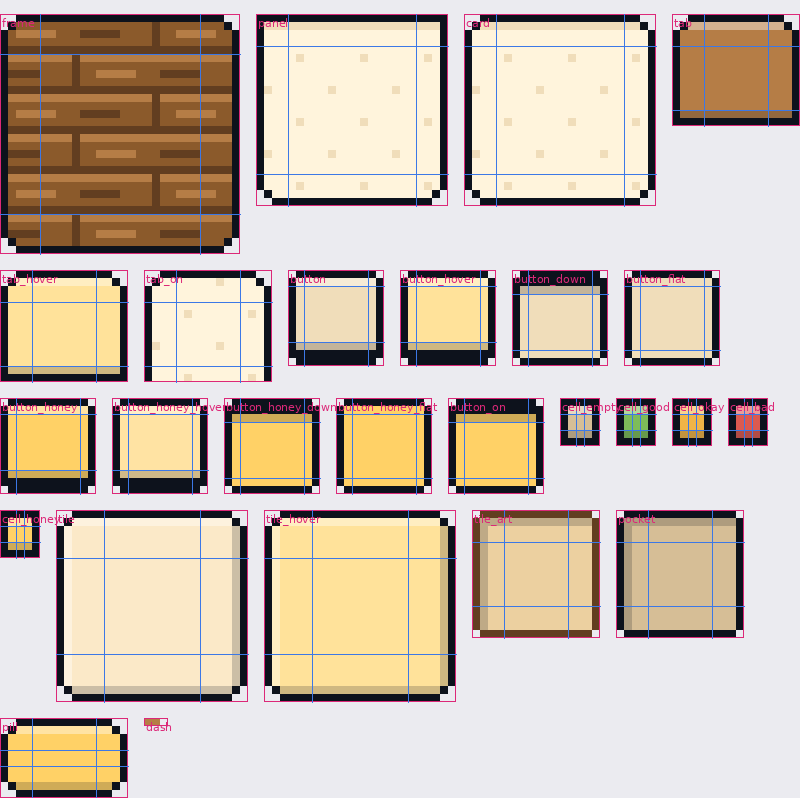
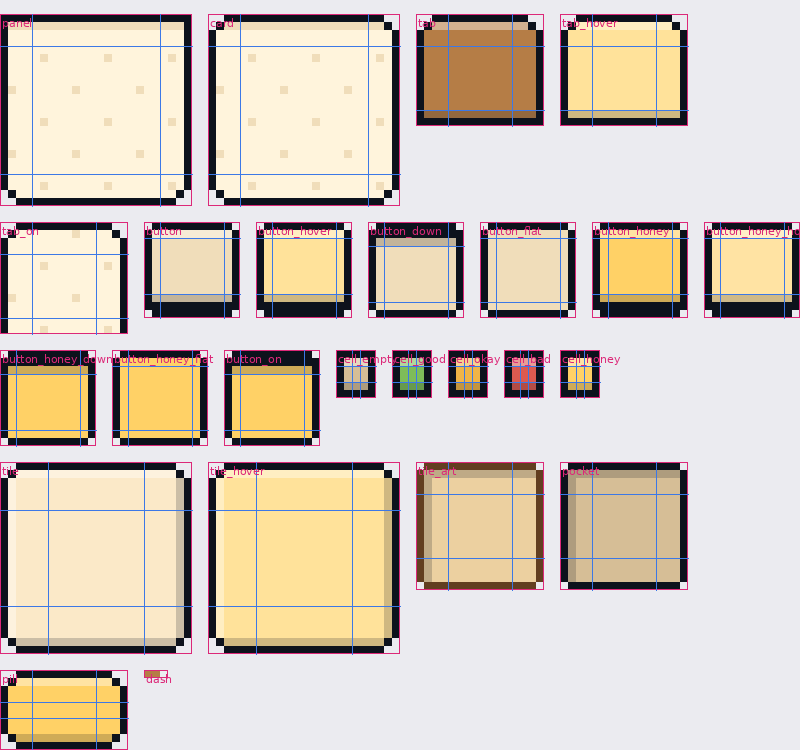
Menu frame background is its own file per skin (frame_<skin>.png: oak planks, birch bark, leafy hedge with flowers, stone bricks, cherry planks with blossoms, starry night), not recoloured; everything else stays in skin.png and is recoloured; art_templates/skin_frames.png shows them side by side
Claude-Session: https://claude.ai/code/session_018yUitM4zMV3L9odfX6GAV1

diff --git a/tools/make_ui_skin.py b/tools/make_ui_skin.py
@@ -4,7 +4,10 @@
     python tools/make_ui_skin.py <папка>    -> само в тази папка (за преглед)
 
 Всички спрайтове са в ЕДИН файл – skin.png (подредени на редове, с 2 празни пиксела
-помежду им). В skin.json за всеки:
+помежду им) – освен фона на рамката (дървото): той е отделен файл за всеки цвят на менюто,
+frame_<скин>.png (classic, birch, grass, stone, sakura, night), нарисуван да отива на скина
+и не се преоцветява. В skin.json за всеки:
+  file  – (само за рамката) от кой файл е; {theme} е скинът;
   rect  – къде е в skin.png (x, y, ширина, височина);
 
 Всеки спрайт се „реже“ на 9 части (9-slice): ъглите стоят както са нарисувани, ръбовете и
@@ -153,30 +156,164 @@ def skin_map(atlas, out, s=8):
     big.save(path)
 
 
-# ───────────────────────── Рамка (дърво) ─────────────────────────
+# ───────────────────────── Рамка (фонът) – отделен файл за всеки скин ─────────────────────────
+#
+# Фонът на рамката (дървото) НЕ е в skin.png и не се преоцветява: за всеки цвят на менюто
+# има свой нарисуван фон – frame_<скин>.png (50×50; ръбът е 5, средата 40×40 се повтаря).
 
-def wood_px(x, y):
-    """Дъски по 5 реда, с фуги и жилки; повтаря се през 20 пиксела."""
+FRAME, FS, PER = 50, 5, 40          # размер, ръб, през колко се повтаря шарката
+
+
+def h(x, y, seed=0):
+    """Псевдослучайно число 0..999 за точка (повтаря се през PER) – за разпръснати шарки."""
+    x, y = x % PER, y % PER
+    v = (x * 73856093) ^ (y * 19349663) ^ (seed * 83492791)
+    v = (v ^ (v >> 13)) * 1274126177
+    return (v ^ (v >> 16)) % 1000
+
+
+def planks(x, y, wood, dark, light, seed=0):
+    """Дъски по 5 реда, дълги по 20, разминати, с фуги и жилки."""
     row = y // 5
     ox = (x + (10 if row % 2 else 0)) % 20
     yy = y % 5
     if yy == 4 or ox == 19:
-        return WOODD
+        return dark
     if yy == 0:
-        return WOODL
-    if yy == 2 and 2 <= ox <= 6:
-        return WOODL
-    if yy == 2 and 10 <= ox <= 14:
-        return WOODD
-    return WOOD
+        return light
+    if yy == 2 and h(x // 4, row, seed) < 450 and ox % 9 < 5:
+        return light if h(x, row, seed + 1) < 500 else dark
+    return wood
 
 
-def frame(out):
-    s = S(30, 30)
-    s.fill(wood_px)
-    s.outline()
-    s.corners(2, 2, 2, 2)
-    save("frame", s, (5, 5, 5, 5), (1, 1, 1, 1), out)
+def frame_oak(x, y):
+    return planks(x, y, (139, 90, 43), (98, 62, 32), (181, 125, 70))
+
+
+def frame_birch(x, y):
+    base, line, mark = (232, 228, 216), (206, 200, 186), (52, 48, 44)
+    if y % 10 == 9:                                  # между дъските от бреза
+        return line
+    n = h(x // 3, y, 3)
+    if n < 70 and y % 10 not in (0, 8):              # черните чертички по кората
+        return mark
+    if n < 120:
+        return (186, 180, 168)
+    if y % 10 == 0:
+        return (248, 246, 238)
+    return base
+
+
+def frame_grass(x, y):
+    dark, mid, light = (52, 96, 36), (90, 146, 58), (142, 196, 92)
+    n = h(x, y, 5)
+    if n < 6:
+        return (255, 236, 120)                       # цветенце
+    if n < 11:
+        return (255, 255, 255)
+    if n < 15:
+        return (246, 160, 190)
+    # листенца: светъл връх и тъмна сянка под него, по диагонал
+    k = (x + 2 * y) % 6
+    j = h(x // 3, y // 2, 7)
+    if k == 0 and j < 650:
+        return light
+    if k == 1 and j < 650:
+        return mid
+    if (x + 2 * y) % 6 == 3 and h(x // 2, y // 3, 9) < 500:
+        return dark
+    return mid if j < 520 else (76, 128, 50)
+
+
+def frame_stone(x, y):
+    mortar, face, lit, shade = (78, 78, 86), (140, 140, 146), (182, 182, 188), (110, 110, 118)
+    row = y // 8
+    bw = 16 if row % 2 == 0 else 20
+    ox = (x + (8 if row % 2 else 0)) % 40
+    bx = ox % bw if ox < 40 - (40 % bw) else ox - (40 - (40 % bw))
+    yy = y % 8
+    if yy == 7 or bx == bw - 1 or ox == 39:
+        return mortar
+    if yy == 0 or bx == 0:
+        return lit
+    if yy == 6 or bx == bw - 2:
+        return shade
+    n = h(x, y, 11)
+    if n < 60:
+        return shade
+    if n < 100:
+        return lit
+    return face
+
+
+def frame_sakura(x, y):
+    c = planks(x, y, (122, 70, 60), (86, 46, 40), (168, 106, 92), seed=4)
+    n = h(x // 2, y // 2, 13)
+    if n < 22:                                       # розово цветче (2×2, със светла точка)
+        return (255, 214, 226) if (x + y) % 2 == 0 else (240, 150, 178)
+    return c
+
+
+def frame_night(x, y):
+    sky, deep = (40, 46, 82), (32, 36, 66)
+    n = h(x, y, 17)
+    if n < 8:
+        return (255, 250, 220)                       # звезда
+    if n < 12:
+        return (180, 190, 240)
+    # няколко по-големи звезди – кръстче
+    for cx, cy in ((7, 9), (27, 23), (16, 34), (34, 4)):
+        dx, dy = (x - cx) % PER, (y - cy) % PER
+        dx = dx - PER if dx > PER // 2 else dx
+        dy = dy - PER if dy > PER // 2 else dy
+        if dx == 0 and dy == 0:
+            return (255, 240, 170)
+        if abs(dx) + abs(dy) == 1:
+            return (150, 160, 220)
+    return deep if h(x // 2, y // 2, 19) < 160 else sky
+
+
+FRAMES = {
+    "classic": frame_oak,
+    "birch": frame_birch,
+    "grass": frame_grass,
+    "stone": frame_stone,
+    "sakura": frame_sakura,
+    "night": frame_night,
+}
+
+
+def frames(out):
+    for theme, fn in FRAMES.items():
+        s = S(FRAME, FRAME)
+        s.fill(fn)
+        s.outline()
+        s.corners(2, 2, 2, 2)
+        s.img.save(os.path.join(out, f"frame_{theme}.png"))
+    DEFS["frame"] = {"file": "frame_{theme}", "rect": [0, 0, FRAME, FRAME], "slice": [FS] * 4, "pad": [1, 1, 1, 1], "recolor": False}
+    frames_map(out)
+
+
+def frames_map(out, s=6):
+    """Всички фонове един до друг (×6), за да се сравнят и прерисуват."""
+    from PIL import ImageDraw, ImageFont
+    try:
+        font = ImageFont.truetype("/usr/share/fonts/truetype/dejavu/DejaVuSans.ttf", 13)
+    except OSError:
+        font = ImageFont.load_default()
+    cell = FRAME * s
+    big = Image.new("RGBA", (len(FRAMES) * (cell + 10) + 10, cell + 34), (235, 235, 240, 255))
+    d = ImageDraw.Draw(big)
+    for i, theme in enumerate(FRAMES):
+        img = Image.open(os.path.join(out, f"frame_{theme}.png"))
+        x = 10 + i * (cell + 10)
+        big.alpha_composite(img.resize((cell, cell), Image.NEAREST), (x, 24))
+        for k in (FS, FRAME - FS):
+            d.line([(x + k * s, 24), (x + k * s, 24 + cell)], fill=(60, 120, 230))
+            d.line([(x, 24 + k * s), (x + cell, 24 + k * s)], fill=(60, 120, 230))
+        d.text((x, 4), f"frame_{theme}.png", fill=(220, 40, 120), font=font)
+    path = os.path.join(ROOT, "art_templates", "skin_frames.png") if out == OUT else os.path.join(out, "skin_frames.png")
+    big.save(path)
 
 
 # ───────────────────────── Хартия ─────────────────────────
@@ -292,7 +429,6 @@ def dash(out):
 
 def main(out=OUT):
     os.makedirs(out, exist_ok=True)
-    frame(out)
     panel(out, "panel", (0, 0, 2, 2))
     panel(out, "card", (2, 2, 2, 2))
     tab(out, "tab", WOODL)
@@ -313,12 +449,14 @@ def main(out=OUT):
     pill(out)
     dash(out)
     pack(out)
+    frames(out)
     # Старите отделни файлове (преди всичко да е в skin.png) вече не трябват.
-    for name in SPRITES:
+    for name in list(SPRITES) + ["frame"]:
         old = os.path.join(out, name + ".png")
-        if name != "skin" and os.path.exists(old):
+        if os.path.exists(old):
             os.remove(old)
-    defs = {k: {"rect": v["rect"], "slice": v["slice"], "pad": v["pad"], **({"recolor": False} if v.get("recolor") is False else {})}
+    defs = {k: {**({"file": v["file"]} if "file" in v else {}), "rect": v["rect"], "slice": v["slice"], "pad": v["pad"],
+                **({"recolor": False} if v.get("recolor") is False else {})}
             for k, v in DEFS.items()}
     # По един ред на спрайт – лесно се чете и поправя на ръка.
     lines = [f'  "{k}": {json.dumps(v)}' for k, v in defs.items()]

diff --git a/src/Mecho/UiSkin.cs b/src/Mecho/UiSkin.cs
@@ -21,10 +21,11 @@ namespace Mecho;
 /// („button“ + „_hover“ → button_hover; ако го няма – button). Спрайтовете са в
 /// цветовете на класическия скин; другите скинове ги преоцветяват (Recolor), без тези с
 /// "recolor": false (деленцата за ситост/енергия). skin_<скин>.png – нарисуван на ръка скин.
+/// Фонът на рамката (дървото) е отделен файл за всеки скин: frame_<скин>.png (skin.json → file).
 /// </summary>
 public static class UiSkin
 {
-    private sealed record Def(Int32Rect Rect, int L, int T, int R, int B, int PL, int PT, int PR, int PB, bool Recolor);
+    private sealed record Def(Int32Rect Rect, int L, int T, int R, int B, int PL, int PT, int PR, int PB, bool Recolor, string? File);
 
     public static readonly DependencyProperty SpriteProperty = DependencyProperty.RegisterAttached(
         "Sprite", typeof(string), typeof(UiSkin), new PropertyMetadata(null, (d, _) => Changed(d)));
@@ -62,7 +63,8 @@ public static class UiSkin
                     var s = Ints("slice");
                     var pad = Ints("pad");
                     bool recolor = !(p.Value.TryGetProperty("recolor", out var rc) && rc.ValueKind == JsonValueKind.False);
-                    _defs[p.Name] = new Def(new Int32Rect(r[0], r[1], r[2], r[3]), s[0], s[1], s[2], s[3], pad[0], pad[1], pad[2], pad[3], recolor);
+                    string? file = p.Value.TryGetProperty("file", out var f) ? f.GetString() : null;
+                    _defs[p.Name] = new Def(new Int32Rect(r[0], r[1], r[2], r[3]), s[0], s[1], s[2], s[3], pad[0], pad[1], pad[2], pad[3], recolor, file);
                 }
             }
             catch (Exception)
@@ -250,14 +252,38 @@ public static class UiSkin
         return _atlas;
     }
 
-    /// <summary>Един спрайт – изрязан от skin.png по skin.json → rect.</summary>
+    private static BitmapSource? LoadPng(string name)
+    {
+        string path = Path.Combine(Dir, name + ".png");
+        if (!File.Exists(path)) return null;
+        var bmp = new BitmapImage();
+        bmp.BeginInit();
+        bmp.CacheOption = BitmapCacheOption.OnLoad;
+        bmp.UriSource = new Uri(path);
+        bmp.EndInit();
+        bmp.Freeze();
+        return bmp;
+    }
+
+    /// <summary>Един спрайт – изрязан от skin.png (или от своя файл, ако има file) по skin.json → rect.</summary>
     private static BitmapSource? Image(string name)
     {
         if (Images.TryGetValue(name, out var cached)) return cached;
         BitmapSource? image = null;
         try
         {
-            if (Defs.TryGetValue(name, out var def) && Atlas() is { } atlas
+            if (Defs.TryGetValue(name, out var own) && own.File != null)
+            {
+                // Отделен файл за всеки скин (фонът на рамката): frame_<скин>.png, иначе класическият.
+                var file = LoadPng(own.File.Replace("{theme}", _theme.Id)) ?? LoadPng(own.File.Replace("{theme}", UiThemes.All[0].Id));
+                if (file != null && own.Rect.X + own.Rect.Width <= file.PixelWidth && own.Rect.Y + own.Rect.Height <= file.PixelHeight)
+                {
+                    var part = new CroppedBitmap(file, own.Rect);
+                    part.Freeze();
+                    image = part;
+                }
+            }
+            else if (Defs.TryGetValue(name, out var def) && Atlas() is { } atlas
                 && def.Rect.X + def.Rect.Width <= atlas.PixelWidth && def.Rect.Y + def.Rect.Height <= atlas.PixelHeight)
             {
                 var crop = new CroppedBitmap(atlas, def.Rect);

diff --git a/tools/preview_menu.py b/tools/preview_menu.py
@@ -33,8 +33,14 @@ with open(os.path.join(SKIN, "skin.json"), encoding="utf-8") as fh:
 ATLAS = Image.open(os.path.join(SKIN, "skin.png")).convert("RGBA")   # всички спрайтове в един файл
 
 
+THEME = "classic"
+
+
 def sprite_img(name):
     x, y, w, h = DEFS[name]["rect"]
+    if "file" in DEFS[name]:          # фонът на рамката – отделен файл за всеки скин
+        src = Image.open(os.path.join(SKIN, DEFS[name]["file"].replace("{theme}", THEME) + ".png")).convert("RGBA")
+        return src.crop((x, y, x + w, y + h))
     return ATLAS.crop((x, y, x + w, y + h))
 
 
